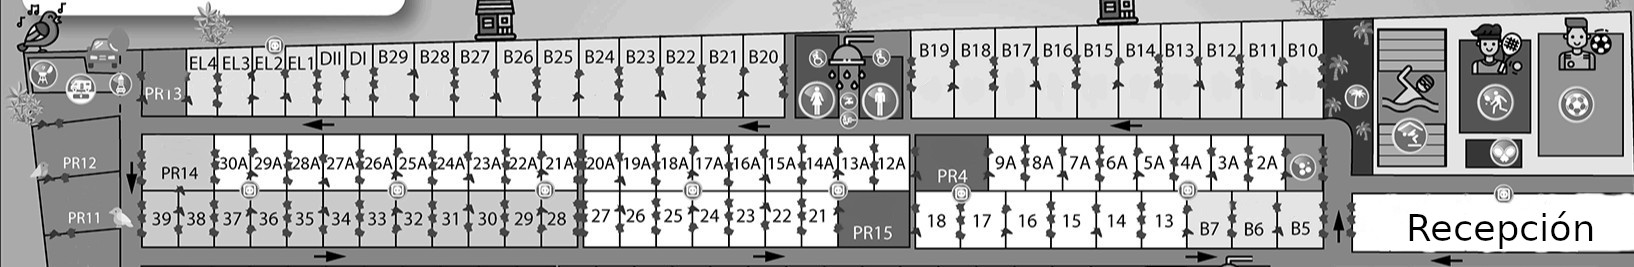
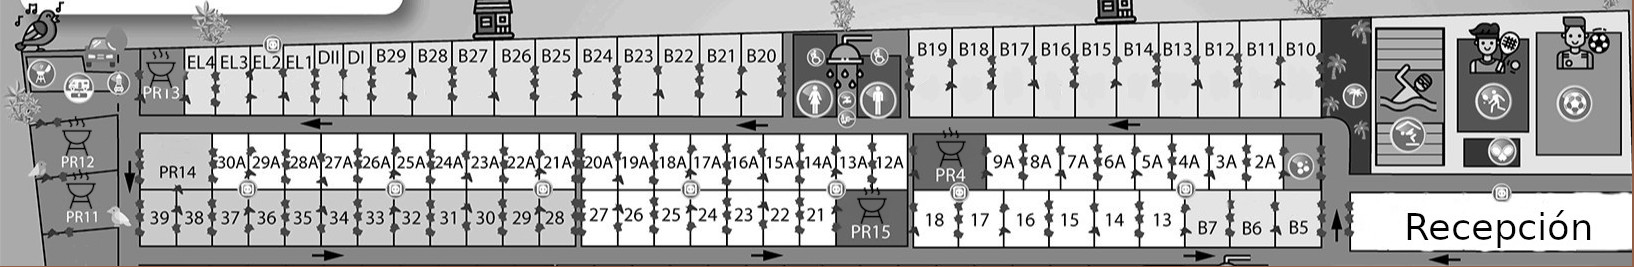
Funcionamiento de las mesas correcto

Changed region(s): [[0.0, 0.0, 1.0, 1.0]]

diff --git a/src/main/java/org/example/camping2/Mapa/MapaCamping.java b/src/main/java/org/example/camping2/Mapa/MapaCamping.java
@@ -1,4 +1,4 @@
-package org.example.camping2.controladores;
+package org.example.camping2.Mapa;
 
 import javafx.animation.Timeline;
 import javafx.fxml.FXML;
@@ -16,8 +16,10 @@ import org.example.camping2.modelo.memoria.Memoria;
 
 import java.io.IOException;
 import java.util.HashMap;
+import java.util.List;
 import java.util.Map;
 import java.util.Optional;
+import java.util.stream.Collectors;
 
 public class MapaCamping {
 
@@ -201,6 +203,13 @@ public class MapaCamping {
     @FXML private Button S38;
     @FXML private Button S39;
 
+    @FXML private Button PR14;
+    @FXML private Button PR13;
+    @FXML private Button PR12;
+    @FXML private Button PR11;
+    @FXML private Button PR4;
+    @FXML private Button PR15;
+
     @FXML
     public void initialize() {
         agregarBotones(
@@ -214,7 +223,7 @@ public class MapaCamping {
                 S13,S14,S15,
                 S16, S17, S18, S21, S22, S23,
                 S24, S25, S26, S27, S28, S29, S30, S31,
-                S32, S33, S34, S35, S36, S37, S38, S39
+                S32, S33, S34, S35, S36, S37, S38, S39, PR4, PR11, PR12, PR13, PR14, PR15
         );
 
         // Asignar evento de clic a cada botón
@@ -385,6 +394,65 @@ public class MapaCamping {
     }
 
     private void manejarClicBoton(String idBoton, MouseEvent event) {
+
+        if (idBoton.startsWith("PR")) {
+            // Abrir ventana MerenderoControlador y pasarle las barbacoas adecuadas
+            abrirVentanaMerendero(idBoton);
+        } else {
+            mostrarDetalleRecurso(idBoton); // Lo que ya hacías con los demás botones
+        }
+
+    }
+
+    private void abrirVentanaMerendero(String prId) {
+        try {
+            FXMLLoader loader = new FXMLLoader(getClass().getResource("/org/example/camping2/vista/mapa/Merenderos.fxml"));
+            Parent root = loader.load();
+
+            MerenderoControlador controlador = loader.getController();
+
+            int[] rango = switch (prId) {
+                case "PR4" -> new int[]{1, 10};
+                case "PR11" -> new int[]{11, 20};
+                case "PR12" -> new int[]{21, 30};
+                case "PR13" -> new int[]{31, 40};
+                case "PR14" -> new int[]{41, 50};
+                case "PR15" -> new int[]{51, 60};
+                default -> new int[]{1, 10};
+            };
+
+            final int inicio = rango[0];
+            final int fin = rango[1];
+
+            List<Recurso> barbacoas = memoriaRecurso.findAll().stream()
+                    .filter(r -> r.getTipo().toLowerCase().contains("barbacoa"))
+                    .filter(r -> {
+                        try {
+                            String numeroStr = r.getNombre().replaceAll("[^0-9]", "");
+                            int numero = Integer.parseInt(numeroStr);
+                            return numero >= inicio && numero <= fin;
+                        } catch (Exception e) {
+                            return false;
+                        }
+                    })
+                    .collect(Collectors.toList());
+
+
+            // Pasar barbacoas al controlador
+            controlador.setBarbacoas(barbacoas);
+
+            Stage stage = new Stage();
+            stage.setTitle("Merendero " + prId);
+            stage.setScene(new Scene(root));
+            stage.initModality(Modality.APPLICATION_MODAL);
+            stage.show();
+
+        } catch (IOException e) {
+            e.printStackTrace();
+        }
+    }
+
+    private void mostrarDetalleRecurso(String idBoton) {
         Optional<Recurso> recursoEncontrado = memoriaRecurso.findAll().stream()
                 .filter(p -> p.getNombre().equals(idBoton))
                 .findFirst();
@@ -417,7 +485,9 @@ public class MapaCamping {
         } else {
             System.out.println("Recurso con nombre " + idBoton + " no encontrado.");
         }
+
     }
+    
 
 
     public void setMemoriaRecurso(Memoria<Recurso, Integer> memoriaRecurso) {

diff --git a/src/main/java/org/example/camping2/Mapa/MerenderoControlador.java b/src/main/java/org/example/camping2/Mapa/MerenderoControlador.java
@@ -1,0 +1,95 @@
+package org.example.camping2.Mapa;
+
+import javafx.animation.KeyFrame;
+import javafx.animation.Timeline;
+import javafx.fxml.FXML;
+import javafx.scene.control.Button;
+import javafx.scene.control.Label;
+import javafx.util.Duration;
+import org.example.camping2.modelo.dto.Recurso;
+
+import java.util.List;
+
+public class MerenderoControlador {
+
+    @FXML private Button mesa1, mesa2, mesa3, mesa4, mesa5, mesa6, mesa7, mesa8, mesa9, mesa10;
+    @FXML private Label text1, text2, text3, text4, text5, text6, text7, text8, text9, text10;
+
+    private List<Button> botonesMesas;
+    private List<Label> textosMesas;
+    private List<Recurso> recursosActuales;
+
+    @FXML
+    public void initialize() {
+        botonesMesas = List.of(mesa1, mesa2, mesa3, mesa4, mesa5, mesa6, mesa7, mesa8, mesa9, mesa10);
+        textosMesas = List.of(text1, text2, text3, text4, text5, text6, text7, text8, text9, text10);
+
+        // Añadir manejadores para los botones
+        for (int i = 0; i < botonesMesas.size(); i++) {
+            final int index = i;  // variable final para usar en lambda
+            botonesMesas.get(i).setOnAction(event -> {
+                if (recursosActuales != null && index < recursosActuales.size()) {
+                    Recurso recurso = recursosActuales.get(index);
+                    System.out.println("Info recurso seleccionado:");
+                    System.out.println("Nombre: " + recurso.getNombre());
+                    System.out.println("Estado: " + recurso.getEstado());
+                    // Añade aquí más info si quieres
+                }
+            });
+        }
+
+        // Inicia el Timeline para actualizar cada 5 minutos
+        Timeline timeline = new Timeline(
+                new KeyFrame(Duration.minutes(5), e -> actualizarColores())
+        );
+        timeline.setCycleCount(Timeline.INDEFINITE);
+        timeline.play();
+    }
+
+
+    public void setBarbacoas(List<Recurso> barbacoas) {
+        this.recursosActuales = barbacoas;
+        actualizarVistaCompleta();
+    }
+
+    private void actualizarVistaCompleta() {
+        if (recursosActuales == null) return;
+
+        for (int i = 0; i < recursosActuales.size() && i < botonesMesas.size(); i++) {
+            Recurso recurso = recursosActuales.get(i);
+            Button boton = botonesMesas.get(i);
+            Label texto = textosMesas.get(i);
+
+            texto.setText(recurso.getNombre() + "\n" + recurso.getEstado());
+            cambiarColorBotonPorEstado(boton, recurso.getEstado());
+        }
+    }
+
+    private void actualizarColores() {
+        if (recursosActuales == null) return;
+
+        for (int i = 0; i < recursosActuales.size() && i < botonesMesas.size(); i++) {
+            Button boton = botonesMesas.get(i);
+            Recurso recurso = recursosActuales.get(i);
+            cambiarColorBotonPorEstado(boton, recurso.getEstado());
+        }
+    }
+
+    private void cambiarColorBotonPorEstado(Button boton, String estado) {
+        if (estado == null) estado = "";
+        switch (estado.toLowerCase()) {
+            case "disponible":
+                boton.setStyle("-fx-background-color: #4CAF50;"); // verde
+                break;
+            case "ocupado":
+                boton.setStyle("-fx-background-color: #F44336;"); // rojo
+                break;
+            case "mantenimiento":
+                boton.setStyle("-fx-background-color: #FFC107;"); // amarillo
+                break;
+            default:
+                boton.setStyle("-fx-background-color: #9E9E9E;"); // gris
+        }
+    }
+
+}

diff --git a/src/main/java/org/example/camping2/controladores/Clientes/ClienteController.java b/src/main/java/org/example/camping2/controladores/Clientes/ClienteController.java
@@ -21,7 +21,7 @@ import net.sf.jasperreports.engine.JasperPrint;
 import net.sf.jasperreports.view.JasperViewer;
 import org.example.camping2.controladores.Acompanante.AcompananteController;
 import org.example.camping2.controladores.Liberable;
-import org.example.camping2.controladores.MapaCamping;
+import org.example.camping2.Mapa.MapaCamping;
 import org.example.camping2.controladores.Recursos.RecursoController;
 import org.example.camping2.controladores.Reservas.ReservaController;
 import org.example.camping2.modelo.dto.Acompanante;

diff --git a/src/main/java/module-info.java b/src/main/java/module-info.java
@@ -31,4 +31,6 @@ module org.example.camping2 {
     opens org.example.camping2.controladores.Recursos to javafx.fxml;
     exports org.example.camping2.controladores.Acompanante;
     opens org.example.camping2.controladores.Acompanante to javafx.fxml;
+    exports org.example.camping2.Mapa;
+    opens org.example.camping2.Mapa to javafx.fxml;
 }
